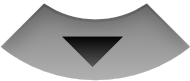
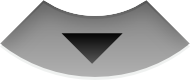
improved png images

diff --git a/qml/xbmcremote/fremantle/Keypad.qml b/qml/xbmcremote/fremantle/Keypad.qml
@@ -137,7 +137,7 @@ BorderImage {
             id: buttonRow
             width: orientation == "portrait" ? parent.width : buttonRowGrid.width
             height: orientation == "portrait" ? buttonRowGrid.height : parent.height
-//            Rectangle {color: "blue"; anchors.fill: parent }
+            Rectangle {color: "blue"; anchors.fill: parent }
             Grid {
                 anchors.centerIn: parent
                 id: buttonRowGrid
@@ -161,11 +161,12 @@ BorderImage {
                 Item {
                     width: homeButton.width
                     height: homeButton.height
+                    visible: orientation == "portrait"
                 }
 
                 Image {
                     id: homeButton
-                    source: "images/button2_u.png"
+                    source: "images/button2_u1.png"
                     MouseArea {
                         id: homeMouseArea
                         anchors.fill: parent
